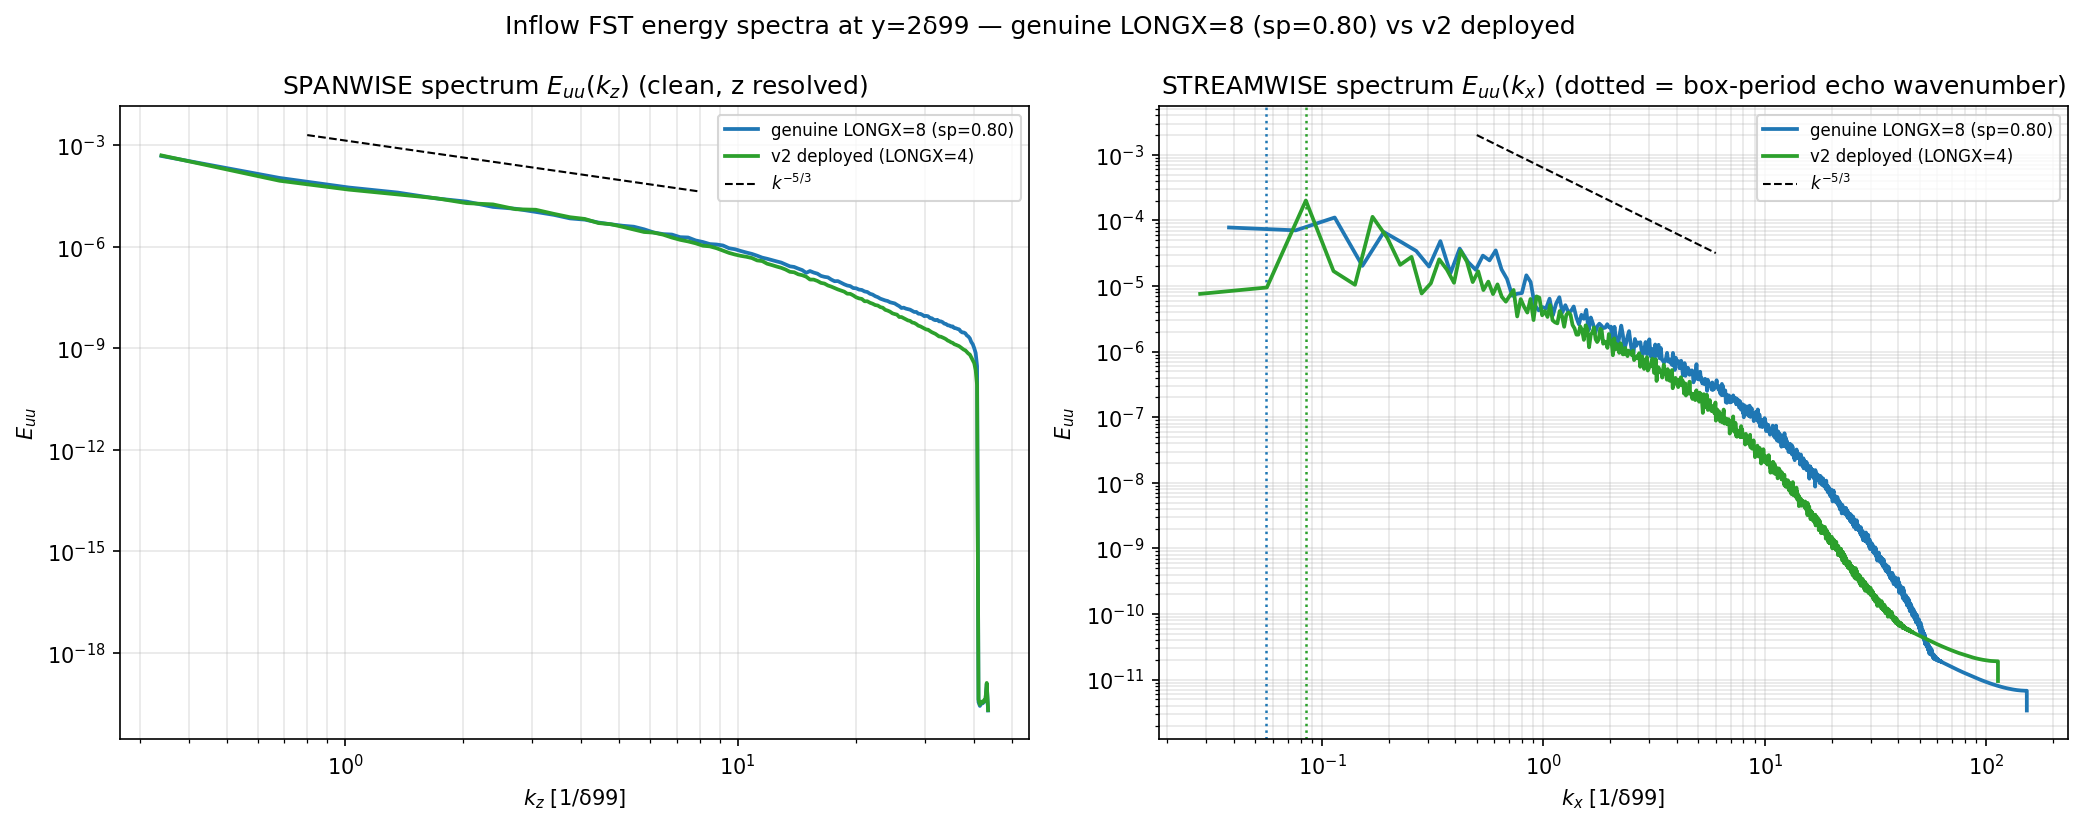
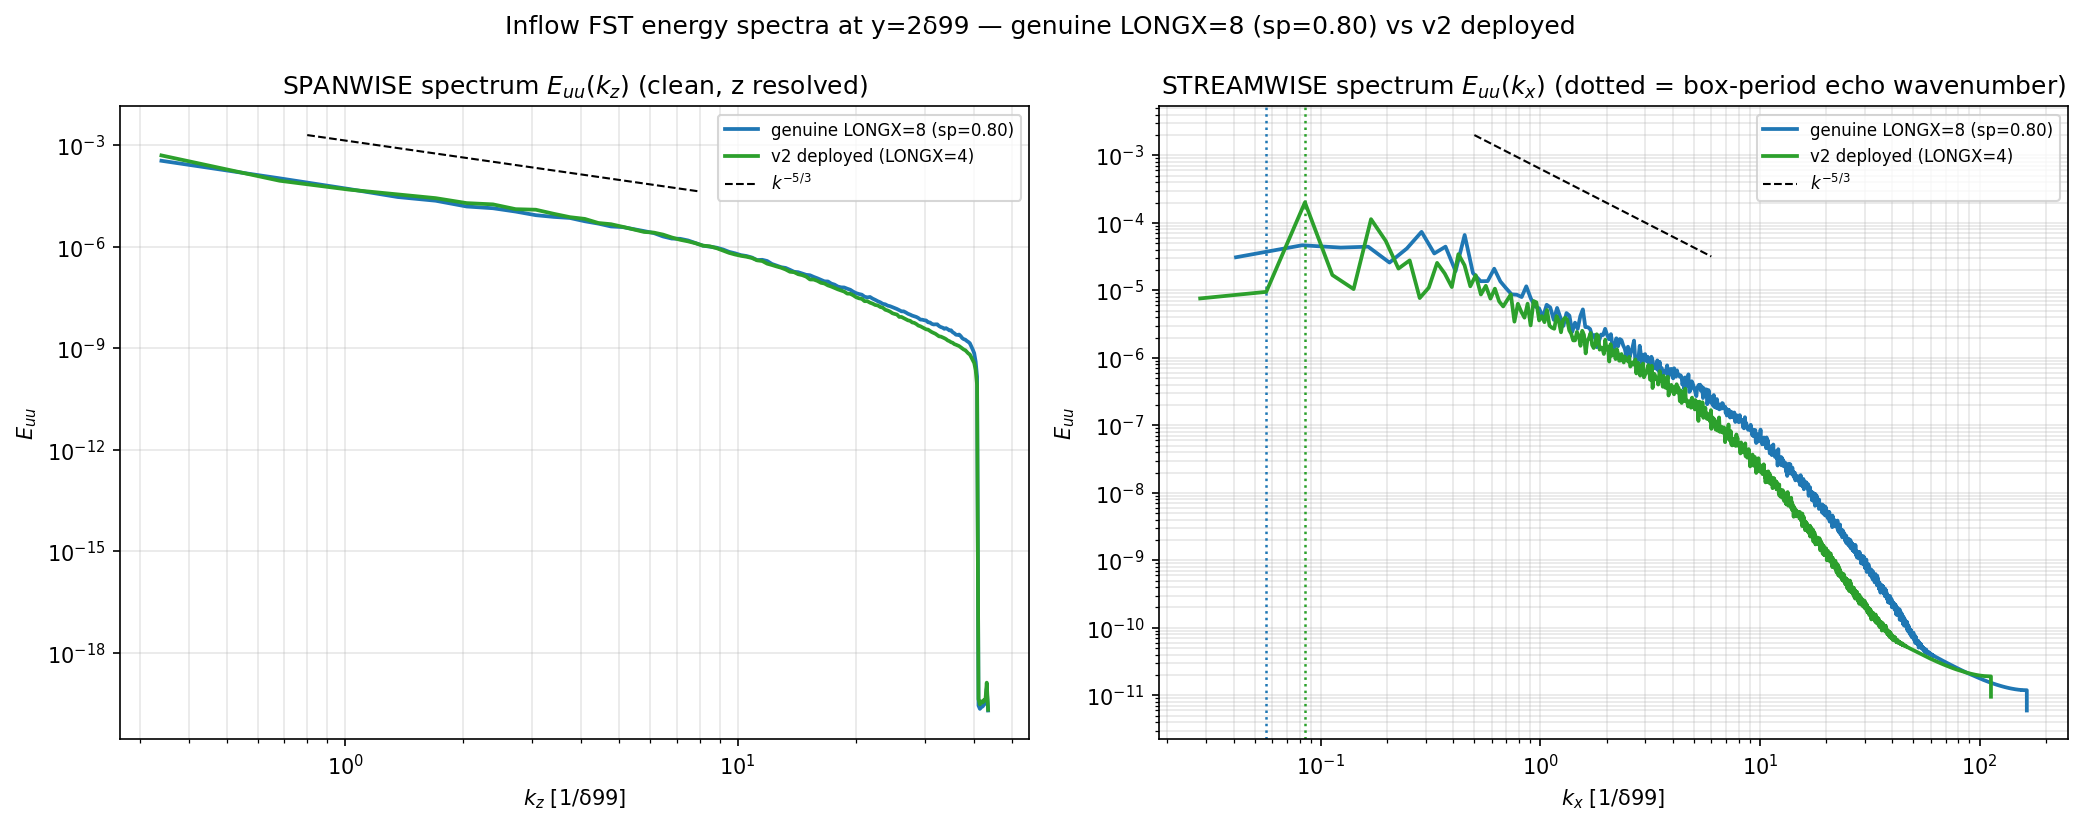
Update LONGX=8 inflow figures from well-averaged t=12 sweep (sweep_period=0.80)
L_x/L_z(u')=1.89 (isotropy target ~2.0 met). Box-period echo +0.086 @112 d99 (above the
0.05 wish; isotropy vs echo trade off via sweep_period). Regenerated isotropy, streamwise
view, and inflow spectra from the well-averaged 12000-plane inflow.

diff --git a/figures/README.md b/figures/README.md
@@ -11,7 +11,10 @@ inflow + bypass-transition DNS (`transition_hit_v2` workflow).
   periodic forever, so the swept inflow echoes at the 18.5 δ99 tile sub-period.
 - `echo_isotropy_3case.png` — genuine LONGX=8 echo + isotropy overview.
 - `eddy_isotropy_sweep0.80.png` — eddy isotropy at y=2 δ99 (R_x solid vs R_z dashed) at
-  the tuned sweep_period=0.80: L_x/L_z(u') ≈ 2.1 (canonical isotropic ~2).
+  the tuned sweep_period=0.80 (well-averaged t=12 run): **L_x/L_z(u') ≈ 1.9** (canonical
+  isotropic ~2). NOTE the box-period echo at this sweep_period is ~0.09 @112 δ99 (above the
+  0.05 wish) — isotropy (~2.0, needs faster sweep) and low echo (needs slower sweep) trade
+  off on this LONGX=8 box; still 3× lower echo than the current Marlowe inflow (0.28 @74 δ99).
 - `streamwise_view_sweep0.80.png` — u'(x,z) top + u'(x,y) side view, true aspect.
 - `inflow_spectra_vs_v2.png` — inflow 1D energy spectra E(k_x), E(k_z) at y=2 δ99 vs the
   deployed v2 inflow: k^-5/3 inertial range, matching energy levels, no echo spike.
